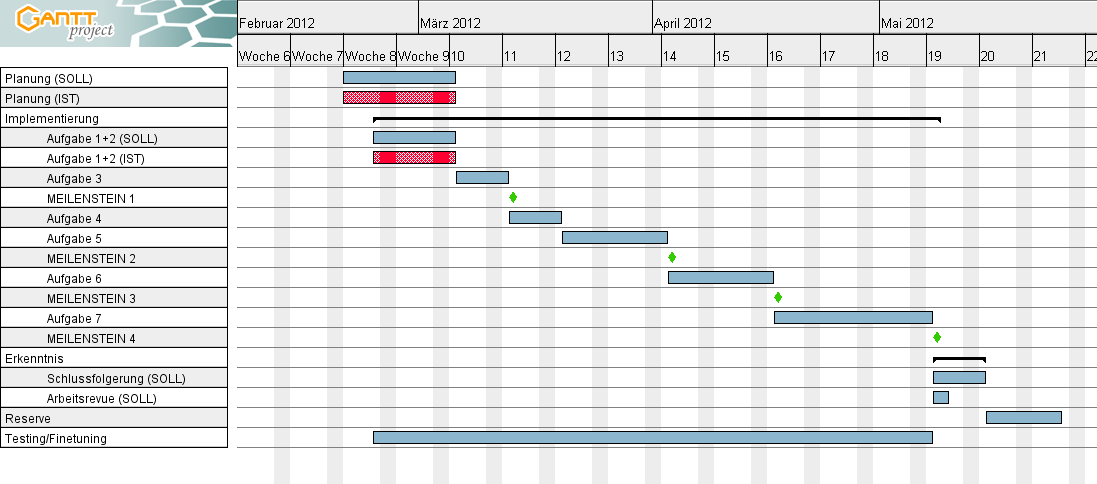
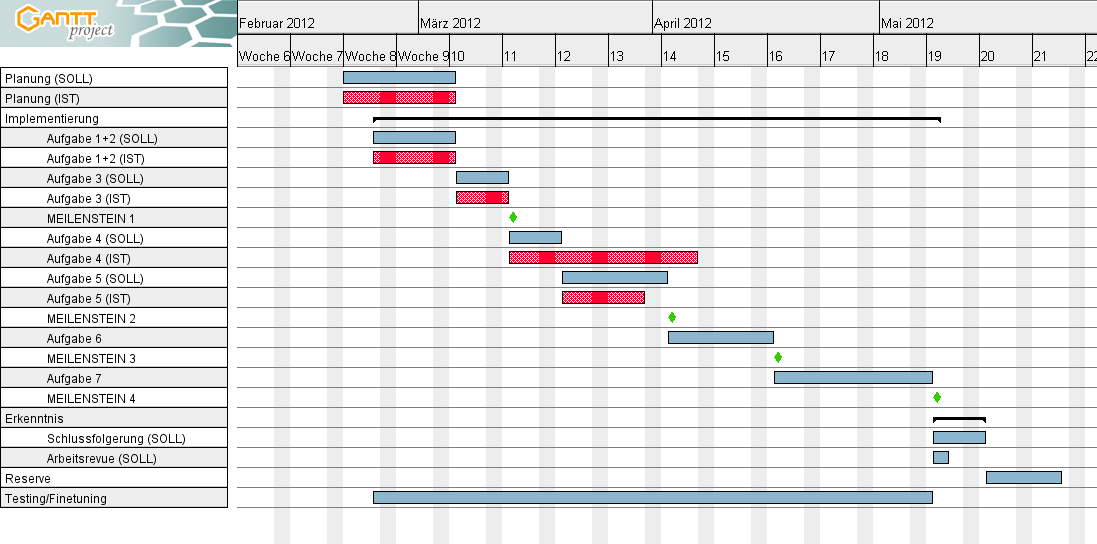
Doku

Changed region(s): [[0.0, 0.0, 1.0, 0.9607]]

diff --git a/Bericht/main.tex b/Bericht/main.tex
@@ -162,12 +162,12 @@ Für unser Projekt haben wir uns für das V-Modell entschieden, da die Phasen st
     \textbf{Arbeitspakete} & \textbf{Tasks} & \textbf{Zeitaufwand} & \textbf{\color{black}Effektiv} \\ \hline \hline
     \multirow{1}{*}{} & \textbf{Planung} & \textbf{Tage} & \textbf{Tage}  \\ \cline{2-4} \hline \hline
      & \textbf{Implementierung} & \textbf{Tage} & \textbf{Tage}  \\ \hline
-     \multirow{1}{*}{Nr. 1}& Aufgabe 1+2 &  Tage & Tage \\ \hline
-     Nr. 2 & Aufgabe 3 &  Tage &  Tage \\ \hline
-     Nr. 3& Aufgabe 4 &  Tage &  Tage \\ \hline
-     Nr. 4& Aufgabe 5 &  Tage &  Tag \\ \hline
-     Nr. 5& Aufgabe 6 &  Tage &  Tage \\ \hline
-     Nr. 6& Aufgabe 7 &  Tage &  Tage \\ \cline{2-4}\hline \hline
+     \multirow{1}{*}{Nr. 1}& Aufgabe 1+2 & 12 Tage & 12 Tage \\ \hline
+     Nr. 2 & Aufgabe 3 & 8 Tage & 8 Tage \\ \hline
+     Nr. 3& Aufgabe 4 & 8 Tage & 25 Tage \\ \hline
+     Nr. 4& Aufgabe 5 & 13 Tage & 10 Tage \\ \hline
+     Nr. 5& Aufgabe 6 & 15 Tage &  Tage \\ \hline
+     Nr. 6& Aufgabe 7 & 22 Tage &  Tage \\ \cline{2-4}\hline \hline
      Nr. 7& \textbf{Testing / Finetuning} & \textbf{ Tage} & \textbf{ Tage}  \\ \hline \hline
      \multirow{3}{*}{Nr. 8} & \textbf{Erkenntnis} & \textbf{ Tage} & \textbf{ Tage} \\ \cline{2-4}
      & Schlussfolgerung &  Tage &  Tage  \\ \cline{2-4}
